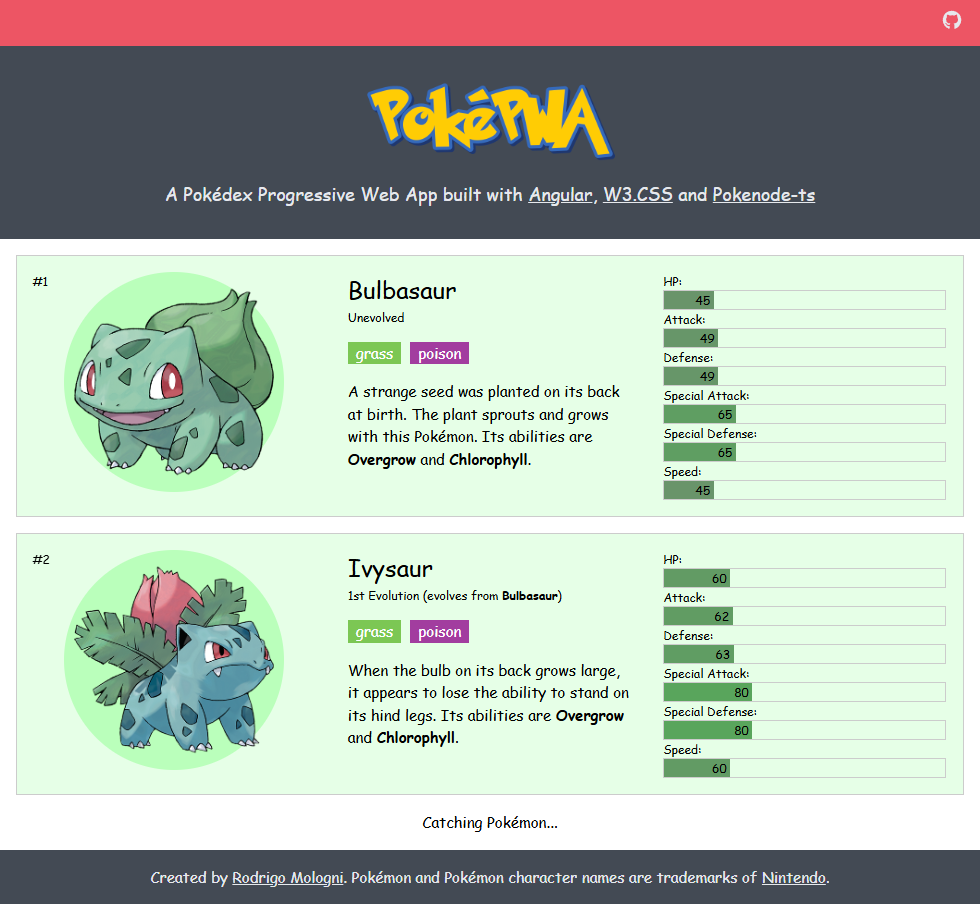
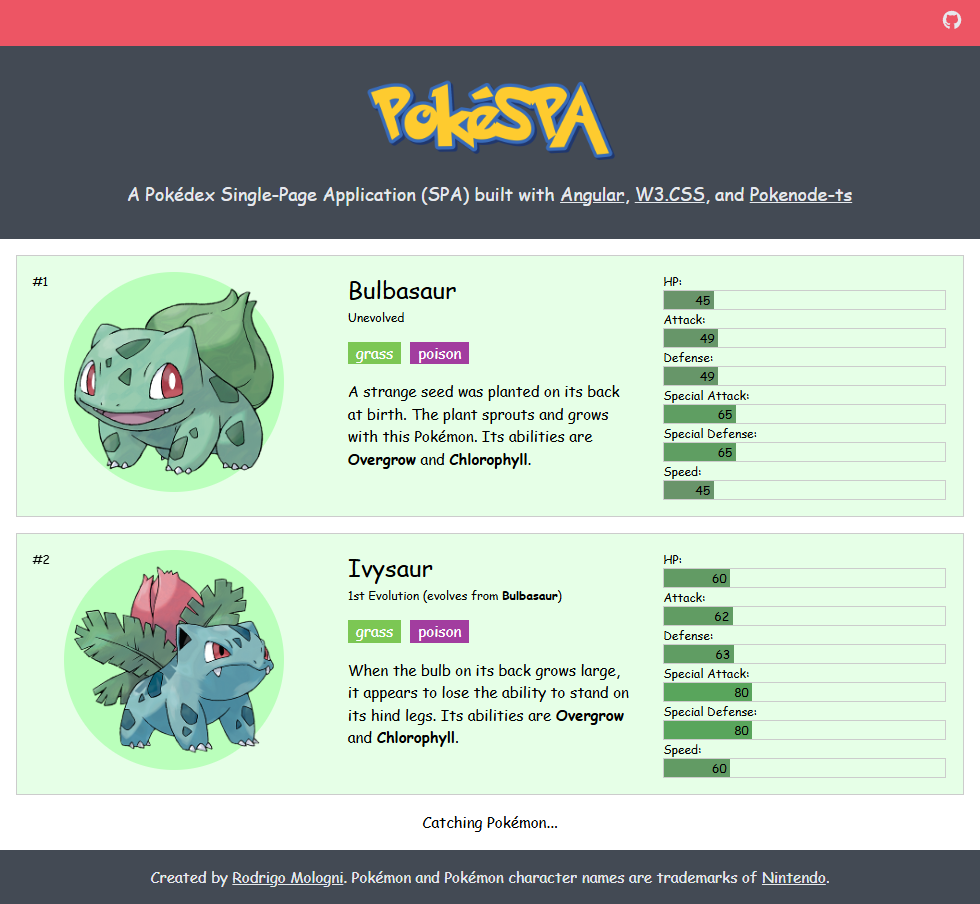
Change the project name to PokéSPA - Pokédex Single-Page Application

Changed region(s): [[0.1224, 0.0929, 0.8571, 0.2478]]

diff --git a/src/app/app.html b/src/app/app.html
@@ -14,7 +14,7 @@
   <header class="w3-container w3-padding-32 w3-center">
     <div><img src="logo.png" style="width:256px;height:auto;" alt="PokéPWA Logo" /></div>
     <div class="w3-content w3-large w3-margin-top">
-      A Pokédex Progressive Web App (PWA) built with
+      A Pokédex Single-Page Application (SPA) built with
       <a href="https://angular.dev/">Angular</a>,
       <a href="https://www.w3schools.com/w3css/">W3.CSS</a>, and
       <a href="https://pokenode-ts.vercel.app/">Pokenode-ts</a>

diff --git a/src/index.html b/src/index.html
@@ -2,7 +2,7 @@
 <html lang="en">
 <head>
   <meta charset="utf-8">
-  <title>PokéPWA - Pokédex Progressive Web App</title>
+  <title>PokéSPA - Pokédex Single-Page Application</title>
   <base href="/">
   <meta name="viewport" content="width=device-width, initial-scale=1">
   <link rel="icon" type="image/svg+xml" href="favicon.svg">

diff --git a/README.md b/README.md
@@ -2,12 +2,12 @@
 <div align="center"><img src="public/logo.png" height="128" alt="" /></div>
 <br />
 
-**PokéPWA** is a Pokédex Progressive Web App (PWA) as a personal study project to practice modern front-end development.
+**PokéSPA** is a Pokédex Single-Page Application (SPA) as a personal study project to practice modern front-end development.
 It leverages [**Angular**](https://angular.dev/) for a reactive UI, [**W3.CSS**](https://www.w3schools.com/w3css/) for lightweight styling, and [**Pokenode-ts**](https://pokenode-ts.vercel.app/) for seamless [**PokeAPI**](https://pokeapi.co/) integration.
 
 ## 🐸 For Pokémon Trainers
 
-This Pokédex is available at https://rodrigomologni.github.io/pokepwa/.
+This Pokédex is available at https://rodrigomologni.github.io/pokespa/.
 It offers comprehensive data on over 1,000 species, featuring:
 
 - **Visual Identity:** official artwork and a background color reflecting the Pokémon's body color.
@@ -35,8 +35,8 @@ Ensure you have the following installed:
 1. Clone the repository:
 
 ```sh
-git clone https://github.com/rodrigomologni/pokepwa.git
-cd pokepwa
+git clone https://github.com/rodrigomologni/pokespa.git
+cd pokespa
 ```
 
 2. Install dependencies:
@@ -53,4 +53,4 @@ npm start
 
 The application will be available at [http://localhost:4200/](http://localhost:4200/), as shown below.
 
-<div align="center"><img src="screen-capture.png" alt="PokéPWA screen capture" /></div>
+<div align="center"><img src="screen-capture.png" alt="PokéSPA screen capture" /></div>
